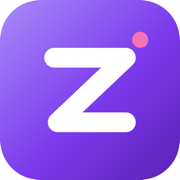
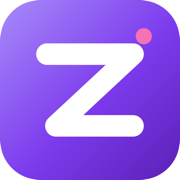
chore: release v0.9.343 — sync src/

Changed region(s): [[0.1944, 0.1389, 0.8611, 0.7778]]

diff --git a/index.html b/index.html
@@ -8,9 +8,9 @@
 
   <!-- Favicon (v0.9.337) : .ico = repli raster que Google Search/anciens navigateurs
        indexent (sinon ils affichent le globe générique) ; SVG pour le moderne ; PNG iOS -->
-  <link rel="icon" href="/favicon.ico?v=0.9.338" sizes="any">
-  <link rel="icon" type="image/svg+xml" href="/favicon.svg?v=0.9.338">
-  <link rel="apple-touch-icon" href="/apple-touch-icon.png?v=0.9.338">
+  <link rel="icon" href="/favicon.ico?v=0.9.343" sizes="any">
+  <link rel="icon" type="image/svg+xml" href="/favicon.svg?v=0.9.343">
+  <link rel="apple-touch-icon" href="/apple-touch-icon.png?v=0.9.343">
 
   <!-- Google Search Console verification -->
   <meta name="google-site-verification" content="IATcfjbZzBPV-3C6XqrgB860ldwwGT5tHFV_L9-z_q4">
@@ -26,7 +26,7 @@
   <meta property="og:title" content="ZeldTrade · Journal de trading prop firm, crypto et fonds propres">
   <meta property="og:description" content="Journal de trading français spécialisé prop firms (Apex, FTMO, Topstep, Lucid, Funding Pips) + crypto (Binance, Coinbase) et fonds propres. IA Vision, multi-comptes, RGPD natif.">
   <meta property="og:url" content="https://zeldtrade.com/">
-  <meta property="og:image" content="https://zeldtrade.com/og-image.png?v=3">
+  <meta property="og:image" content="https://zeldtrade.com/og-image.png?v=4">
   <meta property="og:image:type" content="image/png">
   <meta property="og:image:width" content="1200">
   <meta property="og:image:height" content="630">
@@ -34,7 +34,7 @@
   <meta name="twitter:card" content="summary_large_image">
   <meta name="twitter:title" content="ZeldTrade · Journal de trading prop firm, crypto et fonds propres">
   <meta name="twitter:description" content="Spécialisé prop firms (Apex, FTMO, Topstep, Lucid, FP) + crypto et fonds propres. IA Vision, multi-comptes.">
-  <meta name="twitter:image" content="https://zeldtrade.com/og-image.png?v=3">
+  <meta name="twitter:image" content="https://zeldtrade.com/og-image.png?v=4">
   <meta name="twitter:image:alt" content="ZeldTrade — Journal de trading prop firm avec IA Vision">
 
   <!-- SEO -->
@@ -2605,7 +2605,7 @@
   <div id="langLoader" aria-hidden="true" style="display:none;position:fixed;inset:0;z-index:99999;background:#0d1117;align-items:center;justify-content:center;opacity:0;transition:opacity .35s ease">
     <div style="display:flex;flex-direction:column;align-items:center;gap:22px">
       <div style="width:72px;height:72px;border-radius:18px;background:linear-gradient(135deg,#a78bfa 0%,#7c3aed 55%,#5b21b6 100%);box-shadow:0 18px 50px -12px rgba(124,58,237,0.6);display:flex;align-items:center;justify-content:center">
-        <svg width="44" height="44" viewBox="0 0 100 100" xmlns="http://www.w3.org/2000/svg" aria-hidden="true"><path d="M30 32 L70 32 L32 68 L70 68" fill="none" stroke="#fff" stroke-width="11" stroke-linecap="round" stroke-linejoin="round"/><circle cx="78" cy="22" r="4.5" fill="#f472b6"/></svg>
+        <svg width="44" height="44" viewBox="0 0 100 100" xmlns="http://www.w3.org/2000/svg" aria-hidden="true"><path d="M26 30 L74 30 L31 70 L74 70" fill="none" stroke="#fff" stroke-width="12" stroke-linecap="round" stroke-linejoin="round"/><circle cx="80" cy="20" r="4.5" fill="#f472b6"/></svg>
       </div>
       <div style="font-family:-apple-system,BlinkMacSystemFont,'Segoe UI',sans-serif;font-size:20px;font-weight:700;letter-spacing:-0.02em;color:#e6edf3">ZeldTrade</div>
       <div style="width:180px;height:3px;background:rgba(167,139,250,0.15);border-radius:99px;overflow:hidden">
@@ -2620,8 +2620,8 @@
       <a href="/" class="nav-brand">
         <span class="nav-brand-icon" aria-hidden="true">
           <svg width="18" height="18" viewBox="0 0 100 100" xmlns="http://www.w3.org/2000/svg">
-            <path d="M30 32 L70 32 L32 68 L70 68" fill="none" stroke="#fff" stroke-width="11" stroke-linecap="round" stroke-linejoin="round"/>
-            <circle cx="78" cy="22" r="4.5" fill="#f472b6"/>
+            <path d="M26 30 L74 30 L31 70 L74 70" fill="none" stroke="#fff" stroke-width="12" stroke-linecap="round" stroke-linejoin="round"/>
+            <circle cx="80" cy="20" r="4.5" fill="#f472b6"/>
           </svg>
         </span>
         <span>ZeldTrade</span>
@@ -3042,8 +3042,8 @@
                 </linearGradient>
               </defs>
               <rect width="100" height="100" rx="22" fill="url(#demoLogoBg)"/>
-              <path d="M30 32 L70 32 L32 68 L70 68" fill="none" stroke="#fff" stroke-width="11" stroke-linecap="round" stroke-linejoin="round"/>
-              <circle cx="78" cy="22" r="4.5" fill="#f472b6"/>
+              <path d="M26 30 L74 30 L31 70 L74 70" fill="none" stroke="#fff" stroke-width="12" stroke-linecap="round" stroke-linejoin="round"/>
+              <circle cx="80" cy="20" r="4.5" fill="#f472b6"/>
             </svg>
           </div>
           <div class="demo-side-item active"><svg viewBox="0 0 24 24" width="1em" height="1em" fill="none" stroke="currentColor" stroke-width="1.8" stroke-linecap="round" stroke-linejoin="round" style="vertical-align:-0.125em" aria-hidden="true"><path d="M12 20h9"/><path d="M16.5 3.5a2.1 2.1 0 0 1 3 3L7 19l-4 1 1-4 12.5-12.5z"/></svg> <span data-i18n="demo.nav.new">Nouveau trade</span></div>

diff --git a/updates.html b/updates.html
@@ -16,16 +16,16 @@
     form-action 'self';
     frame-ancestors 'none';
     object-src  'none';">
-  <link rel="icon" href="/favicon.ico?v=0.9.338" sizes="any">
-  <link rel="icon" type="image/svg+xml" href="/favicon.svg?v=0.9.338">
-  <link rel="apple-touch-icon" href="/apple-touch-icon.png?v=0.9.338">
+  <link rel="icon" href="/favicon.ico?v=0.9.343" sizes="any">
+  <link rel="icon" type="image/svg+xml" href="/favicon.svg?v=0.9.343">
+  <link rel="apple-touch-icon" href="/apple-touch-icon.png?v=0.9.343">
   <link rel="canonical" href="https://zeldtrade.com/updates">
   <meta property="og:type" content="website">
   <meta property="og:site_name" content="ZeldTrade">
   <meta property="og:title" content="Nouveautés ZeldTrade — toutes les mises à jour">
   <meta property="og:description" content="Suis toutes les améliorations de ZeldTrade. Rejoins le Discord et la newsletter pour ne rien rater.">
   <meta property="og:url" content="https://zeldtrade.com/updates">
-  <meta property="og:image" content="https://zeldtrade.com/og-image.png?v=3">
+  <meta property="og:image" content="https://zeldtrade.com/og-image.png?v=4">
   <meta name="robots" content="index, follow">
   <title>Nouveautés — ZeldTrade</title>
   <style>

diff --git a/privacy.html b/privacy.html
@@ -18,9 +18,9 @@
   <meta name="referrer" content="strict-origin-when-cross-origin">
   <meta http-equiv="Permissions-Policy" content="camera=(), microphone=(), geolocation=(), payment=(), usb=(), bluetooth=(), accelerometer=(), gyroscope=(), magnetometer=(), midi=(), serial=(), interest-cohort=()">
   <title>Politique de confidentialité — ZeldTrade</title>
-  <link rel="icon" href="/favicon.ico?v=0.9.338" sizes="any">
-  <link rel="icon" type="image/svg+xml" href="/favicon.svg?v=0.9.338">
-  <link rel="apple-touch-icon" href="/apple-touch-icon.png?v=0.9.338">
+  <link rel="icon" href="/favicon.ico?v=0.9.343" sizes="any">
+  <link rel="icon" type="image/svg+xml" href="/favicon.svg?v=0.9.343">
+  <link rel="apple-touch-icon" href="/apple-touch-icon.png?v=0.9.343">
   <link rel="preconnect" href="https://fonts.googleapis.com">
   <link href="https://fonts.googleapis.com/css2?family=Geist:wght@300;400;500;600&display=swap" rel="stylesheet">
   <style>

diff --git a/legal.html b/legal.html
@@ -18,9 +18,9 @@
   <meta name="referrer" content="strict-origin-when-cross-origin">
   <meta http-equiv="Permissions-Policy" content="camera=(), microphone=(), geolocation=(), payment=(), usb=(), bluetooth=(), accelerometer=(), gyroscope=(), magnetometer=(), midi=(), serial=(), interest-cohort=()">
   <title>Mentions légales — ZeldTrade</title>
-  <link rel="icon" href="/favicon.ico?v=0.9.338" sizes="any">
-  <link rel="icon" type="image/svg+xml" href="/favicon.svg?v=0.9.338">
-  <link rel="apple-touch-icon" href="/apple-touch-icon.png?v=0.9.338">
+  <link rel="icon" href="/favicon.ico?v=0.9.343" sizes="any">
+  <link rel="icon" type="image/svg+xml" href="/favicon.svg?v=0.9.343">
+  <link rel="apple-touch-icon" href="/apple-touch-icon.png?v=0.9.343">
   <link rel="preconnect" href="https://fonts.googleapis.com">
   <link href="https://fonts.googleapis.com/css2?family=Geist:wght@300;400;500;600&display=swap" rel="stylesheet">
   <style>

diff --git a/payment.html b/payment.html
@@ -20,9 +20,9 @@
   <meta name="referrer" content="strict-origin-when-cross-origin">
   <meta http-equiv="Permissions-Policy" content="camera=(), microphone=(), geolocation=(), payment=(), usb=(), bluetooth=(), accelerometer=(), gyroscope=(), magnetometer=(), midi=(), serial=(), interest-cohort=()">
   <title>Payment — ZeldTrade</title>
-  <link rel="icon" href="/favicon.ico?v=0.9.338" sizes="any">
-  <link rel="icon" type="image/svg+xml" href="/favicon.svg?v=0.9.338">
-  <link rel="apple-touch-icon" href="/apple-touch-icon.png?v=0.9.338">
+  <link rel="icon" href="/favicon.ico?v=0.9.343" sizes="any">
+  <link rel="icon" type="image/svg+xml" href="/favicon.svg?v=0.9.343">
+  <link rel="apple-touch-icon" href="/apple-touch-icon.png?v=0.9.343">
   <link rel="preconnect" href="https://fonts.googleapis.com">
   <link href="https://fonts.googleapis.com/css2?family=Geist:wght@300;400;500;600;700;800&display=swap" rel="stylesheet">
   <style>

diff --git a/cgu.html b/cgu.html
@@ -18,9 +18,9 @@
   <meta name="referrer" content="strict-origin-when-cross-origin">
   <meta http-equiv="Permissions-Policy" content="camera=(), microphone=(), geolocation=(), payment=(), usb=(), bluetooth=(), accelerometer=(), gyroscope=(), magnetometer=(), midi=(), serial=(), interest-cohort=()">
   <title>CGU / CGV — ZeldTrade</title>
-  <link rel="icon" href="/favicon.ico?v=0.9.338" sizes="any">
-  <link rel="icon" type="image/svg+xml" href="/favicon.svg?v=0.9.338">
-  <link rel="apple-touch-icon" href="/apple-touch-icon.png?v=0.9.338">
+  <link rel="icon" href="/favicon.ico?v=0.9.343" sizes="any">
+  <link rel="icon" type="image/svg+xml" href="/favicon.svg?v=0.9.343">
+  <link rel="apple-touch-icon" href="/apple-touch-icon.png?v=0.9.343">
   <link rel="preconnect" href="https://fonts.googleapis.com">
   <link href="https://fonts.googleapis.com/css2?family=Geist:wght@300;400;500;600&display=swap" rel="stylesheet">
   <style>

diff --git a/admin.html b/admin.html
@@ -22,9 +22,9 @@
   <meta name="format-detection" content="telephone=no, date=no, address=no, email=no">
   <meta http-equiv="Cache-Control" content="no-cache, no-store, must-revalidate">
   <title>ZeldTrade Admin</title>
-  <link rel="icon" href="/favicon.ico?v=0.9.338" sizes="any">
-  <link rel="icon" type="image/svg+xml" href="/favicon.svg?v=0.9.338">
-  <link rel="apple-touch-icon" href="/apple-touch-icon.png?v=0.9.338">
+  <link rel="icon" href="/favicon.ico?v=0.9.343" sizes="any">
+  <link rel="icon" type="image/svg+xml" href="/favicon.svg?v=0.9.343">
+  <link rel="apple-touch-icon" href="/apple-touch-icon.png?v=0.9.343">
   <style>
     *, *::before, *::after { box-sizing: border-box; margin: 0; padding: 0; }
 

diff --git a/app.html b/app.html
@@ -70,8 +70,8 @@
         <div class="login-logo">
           <div class="logo-mark login-logo-mark">
             <svg viewBox="0 0 100 100" xmlns="http://www.w3.org/2000/svg" aria-hidden="true">
-              <path d="M30 32 L70 32 L32 68 L70 68" fill="none" stroke="#fff" stroke-width="11" stroke-linecap="round" stroke-linejoin="round"/>
-              <circle cx="78" cy="22" r="4.5" fill="#f472b6"/>
+              <path d="M26 30 L74 30 L31 70 L74 70" fill="none" stroke="#fff" stroke-width="12" stroke-linecap="round" stroke-linejoin="round"/>
+              <circle cx="80" cy="20" r="4.5" fill="#f472b6"/>
             </svg>
           </div>
           <div class="login-title">ZeldTrade</div>
